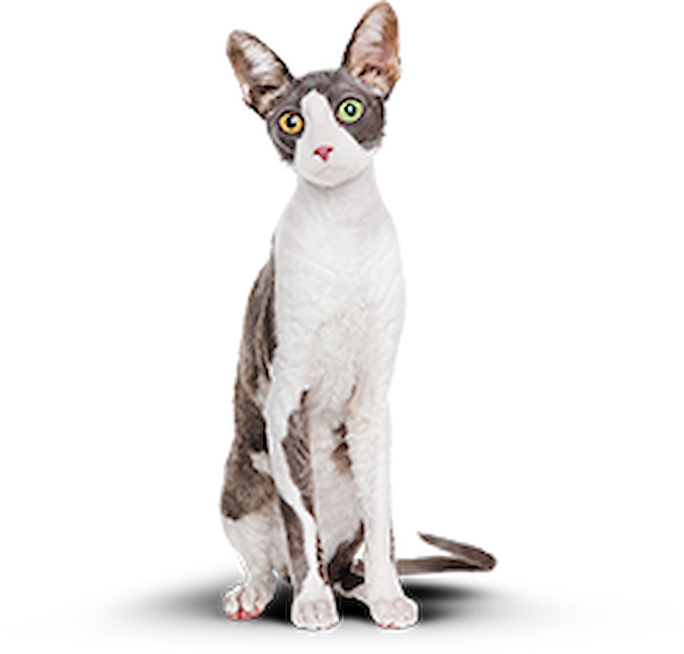
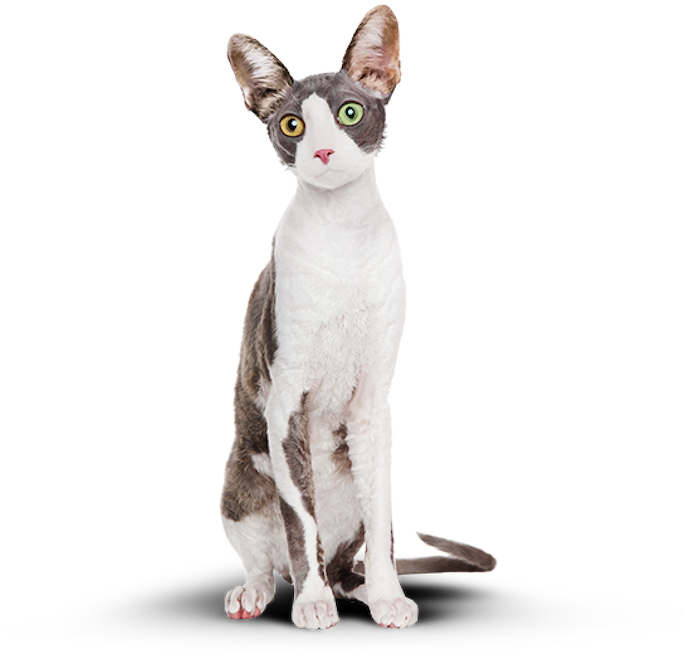
добавляет стройного котика

diff --git a/source/index.html b/source/index.html
@@ -156,16 +156,22 @@
                 <source media="(min-width: 768px)"
                   srcset="img/index/cat-before-tablet 1x.png, img/index/cat-before-tablet@2x 2x.png">
                 <img class="example__image example__image--before" src="img/index/cat-before.png"
-                  alt="Жирненький котик">
+                  srcset="img/index/cat-before@2x.png 2x" alt="Жирненький котик">
               </picture>
             </div>
 
-            <div class="example__after visually-hidden">
+            <div class="example__after">
               <picture>
-                <img class="example__image" src="img/index/cat-after.png" alt="Стройный котик">
+                <source media="(min-width: 1200px)"
+                  srcset="img/index/cat-after-desktop.png 1x, img/index/cat-after-desktop@2x.png 2x">
+                <source media="(min-width: 768px)"
+                  srcset="img/index/cat-after-tablet 1x.png, img/index/cat-after-tablet@2x 2x.png">
+                <img class="example__image example__image--after" src="img/index/cat-after.png"
+                  srcset="img/index/cat-after@2x.png 2x" alt="Стройный котик">
               </picture>
             </div>
           </div>
+
           <div class="example__controls">
             <button class="example__button uppercase">
               <span class="example__button-span">Было</span>

diff --git a/source/sass/blocks/form.scss b/source/sass/blocks/form.scss
@@ -113,9 +113,11 @@
   line-height: 16px;
   font-weight: 400;
   margin: 0;
+  text-align: center;
 
   @media (min-width: $tablet-width) {
-    padding-left: 61px;
+    text-align: left;
+    align-self: center;
   }
 }
 
@@ -152,7 +154,12 @@
   @media (min-width: $tablet-width) {
     display: grid;
     grid-template-columns: 1fr 1fr;
-    align-items: center;
+    gap: 60px;
+    align-items: start;
+  }
+
+  @media (min-width: $desktop-width) {
+    gap: 80px;
   }
 }
 

diff --git a/source/sass/blocks/example.scss b/source/sass/blocks/example.scss
@@ -110,7 +110,8 @@
   }
 }
 
-.example__before {
+.example__before,
+.example__after {
   position: absolute;
 }
 
